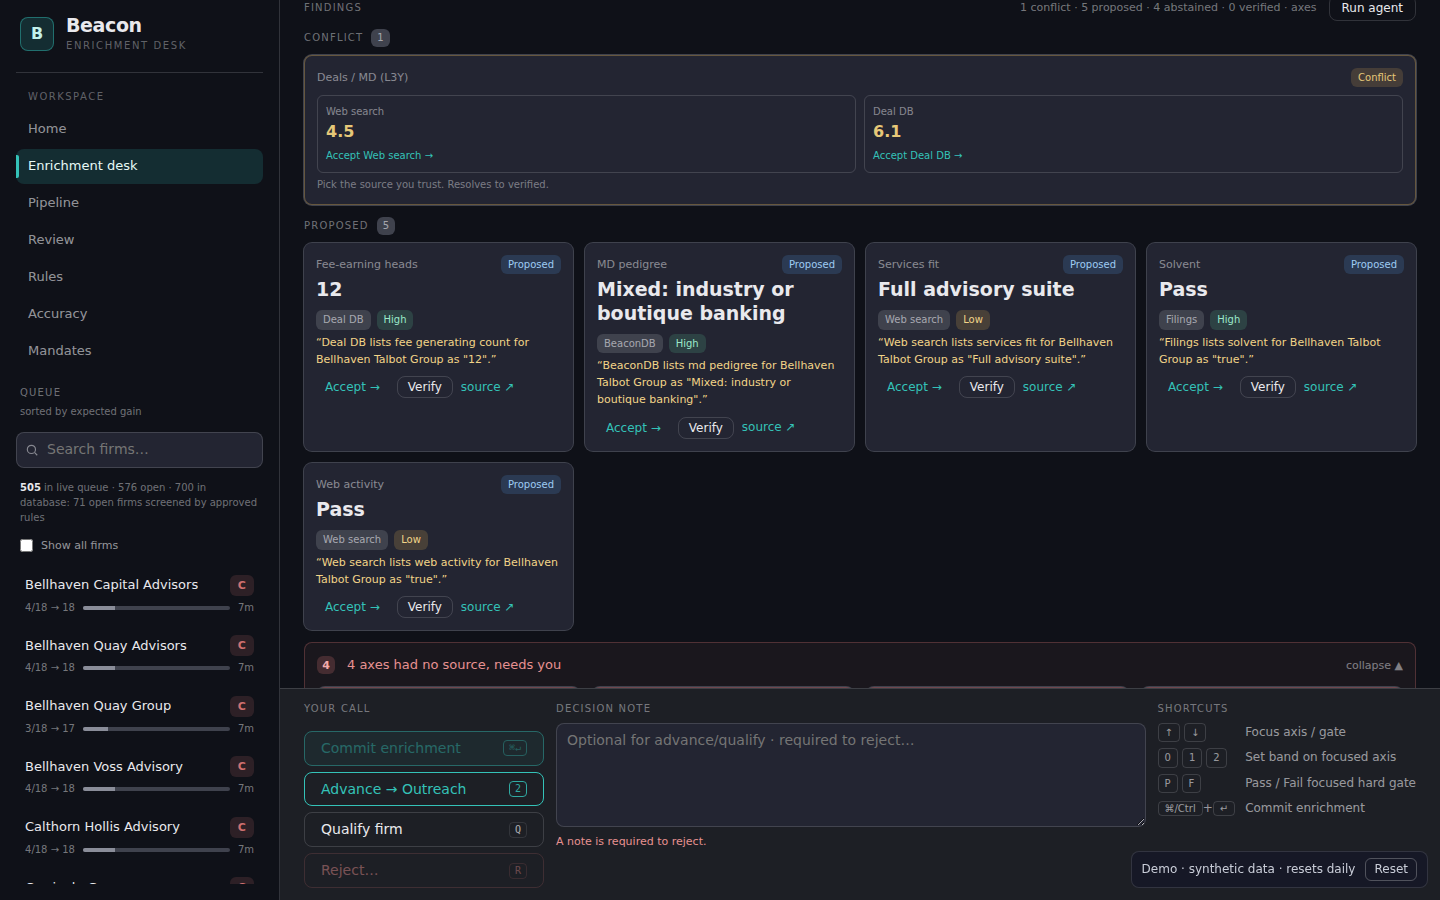
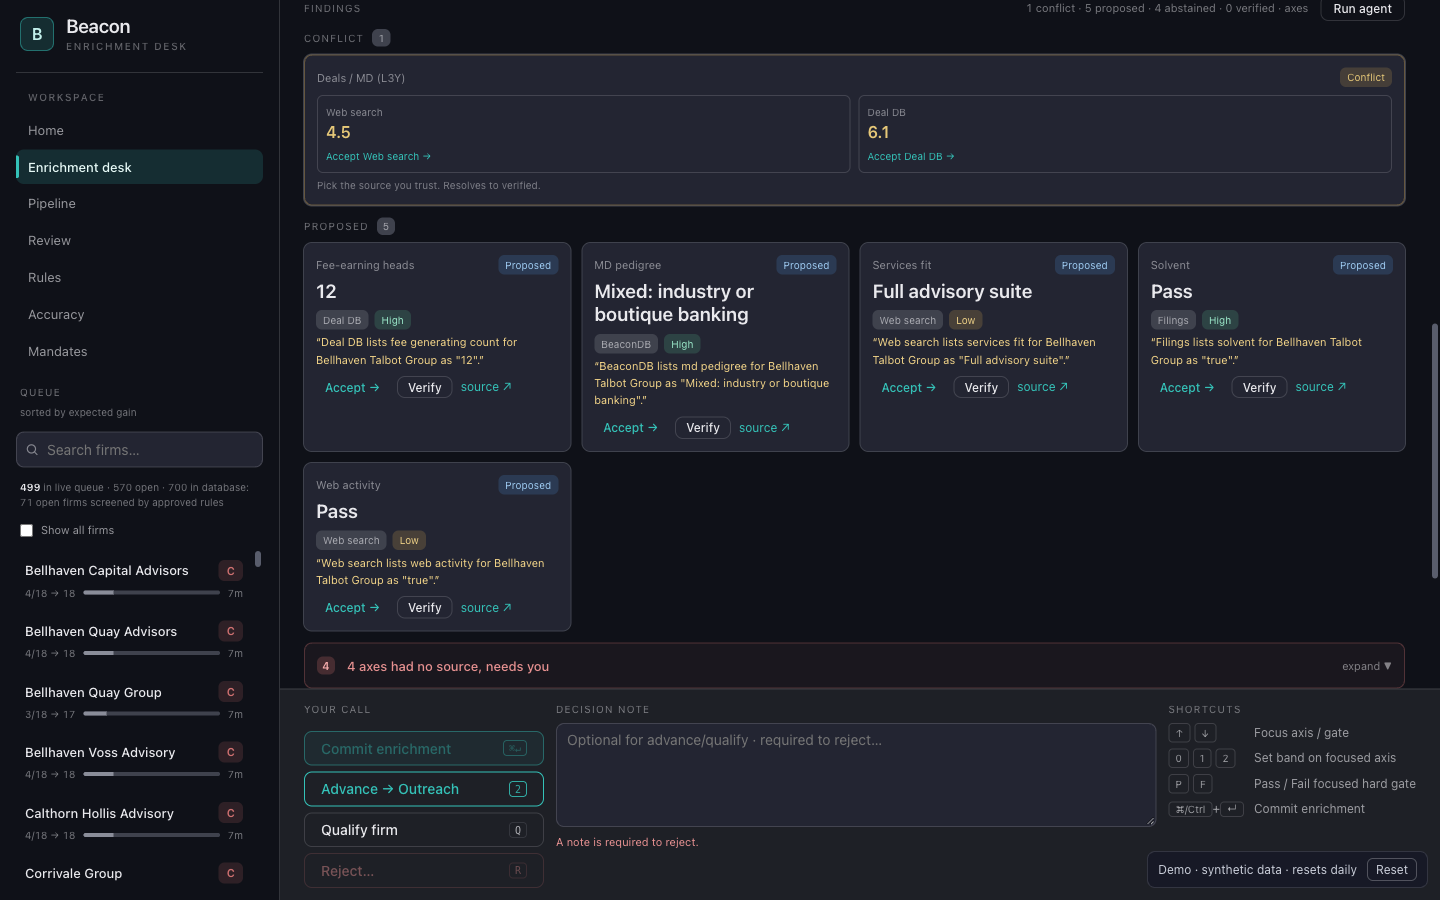
Point the README at the live demo; reshoot screenshots from production

diff --git a/README.md b/README.md
@@ -2,7 +2,7 @@
 
 Acquisition-target sourcing for a corporate development team. Analysts turn a mandate into a searched universe of advisory firms. An agent assembles cited evidence for each firm, a deterministic rubric scores and tiers every firm, and the reasons analysts reject firms become proposed screening rules for the next search.
 
-**Live demo:** https://&lt;production-host&gt; (synthetic data, resets daily)
+**Live demo:** https://beacon-tan-psi.vercel.app (synthetic data, resets daily)
 
 ![Enrichment desk: a conflict between two sources, cited proposals, and abstentions](docs/screenshots/desk.png)
 
